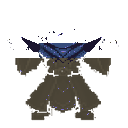
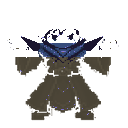
Keep mage scalp hair when stripping the tall hat from full-pose bodies.

diff --git a/tool/build_owned_gear_layers.py b/tool/build_owned_gear_layers.py
@@ -669,7 +669,8 @@ def paint_undertunic(
     if family == "mage":
         op = out.load()
         mp = tint_mask.load()
-        # Everything above the eyes that isn't skin/hair is hat brim/cone.
+        # Tall hat cone above the scalp goes. Near the forehead, keep dark
+        # pixels as hair — gold-master hat overlaps the bob.
         for y in range(0, int(fy)):
             for x in range(128):
                 r, g, b, a = op[x, y]
@@ -678,8 +679,12 @@ def paint_undertunic(
                 rgb = (r, g, b)
                 if is_skin(rgb, face) or is_hair_color("mage", rgb):
                     continue
-                op[x, y] = (0, 0, 0, 0)
-                mp[x, y] = (0, 0, 0, 0)
+                scalp = y >= fy - 14 and abs(x - fx) <= face_half * 1.85
+                if scalp and lum(rgb) < 0.38 and not is_gold_pixel(rgb):
+                    continue
+                if y < fy - 12 or is_hat_or_hood("mage", rgb) or is_hat_lining(rgb) or is_gold_pixel(rgb):
+                    op[x, y] = (0, 0, 0, 0)
+                    mp[x, y] = (0, 0, 0, 0)
     if family == "healer":
         op = out.load()
         mp = tint_mask.load()
